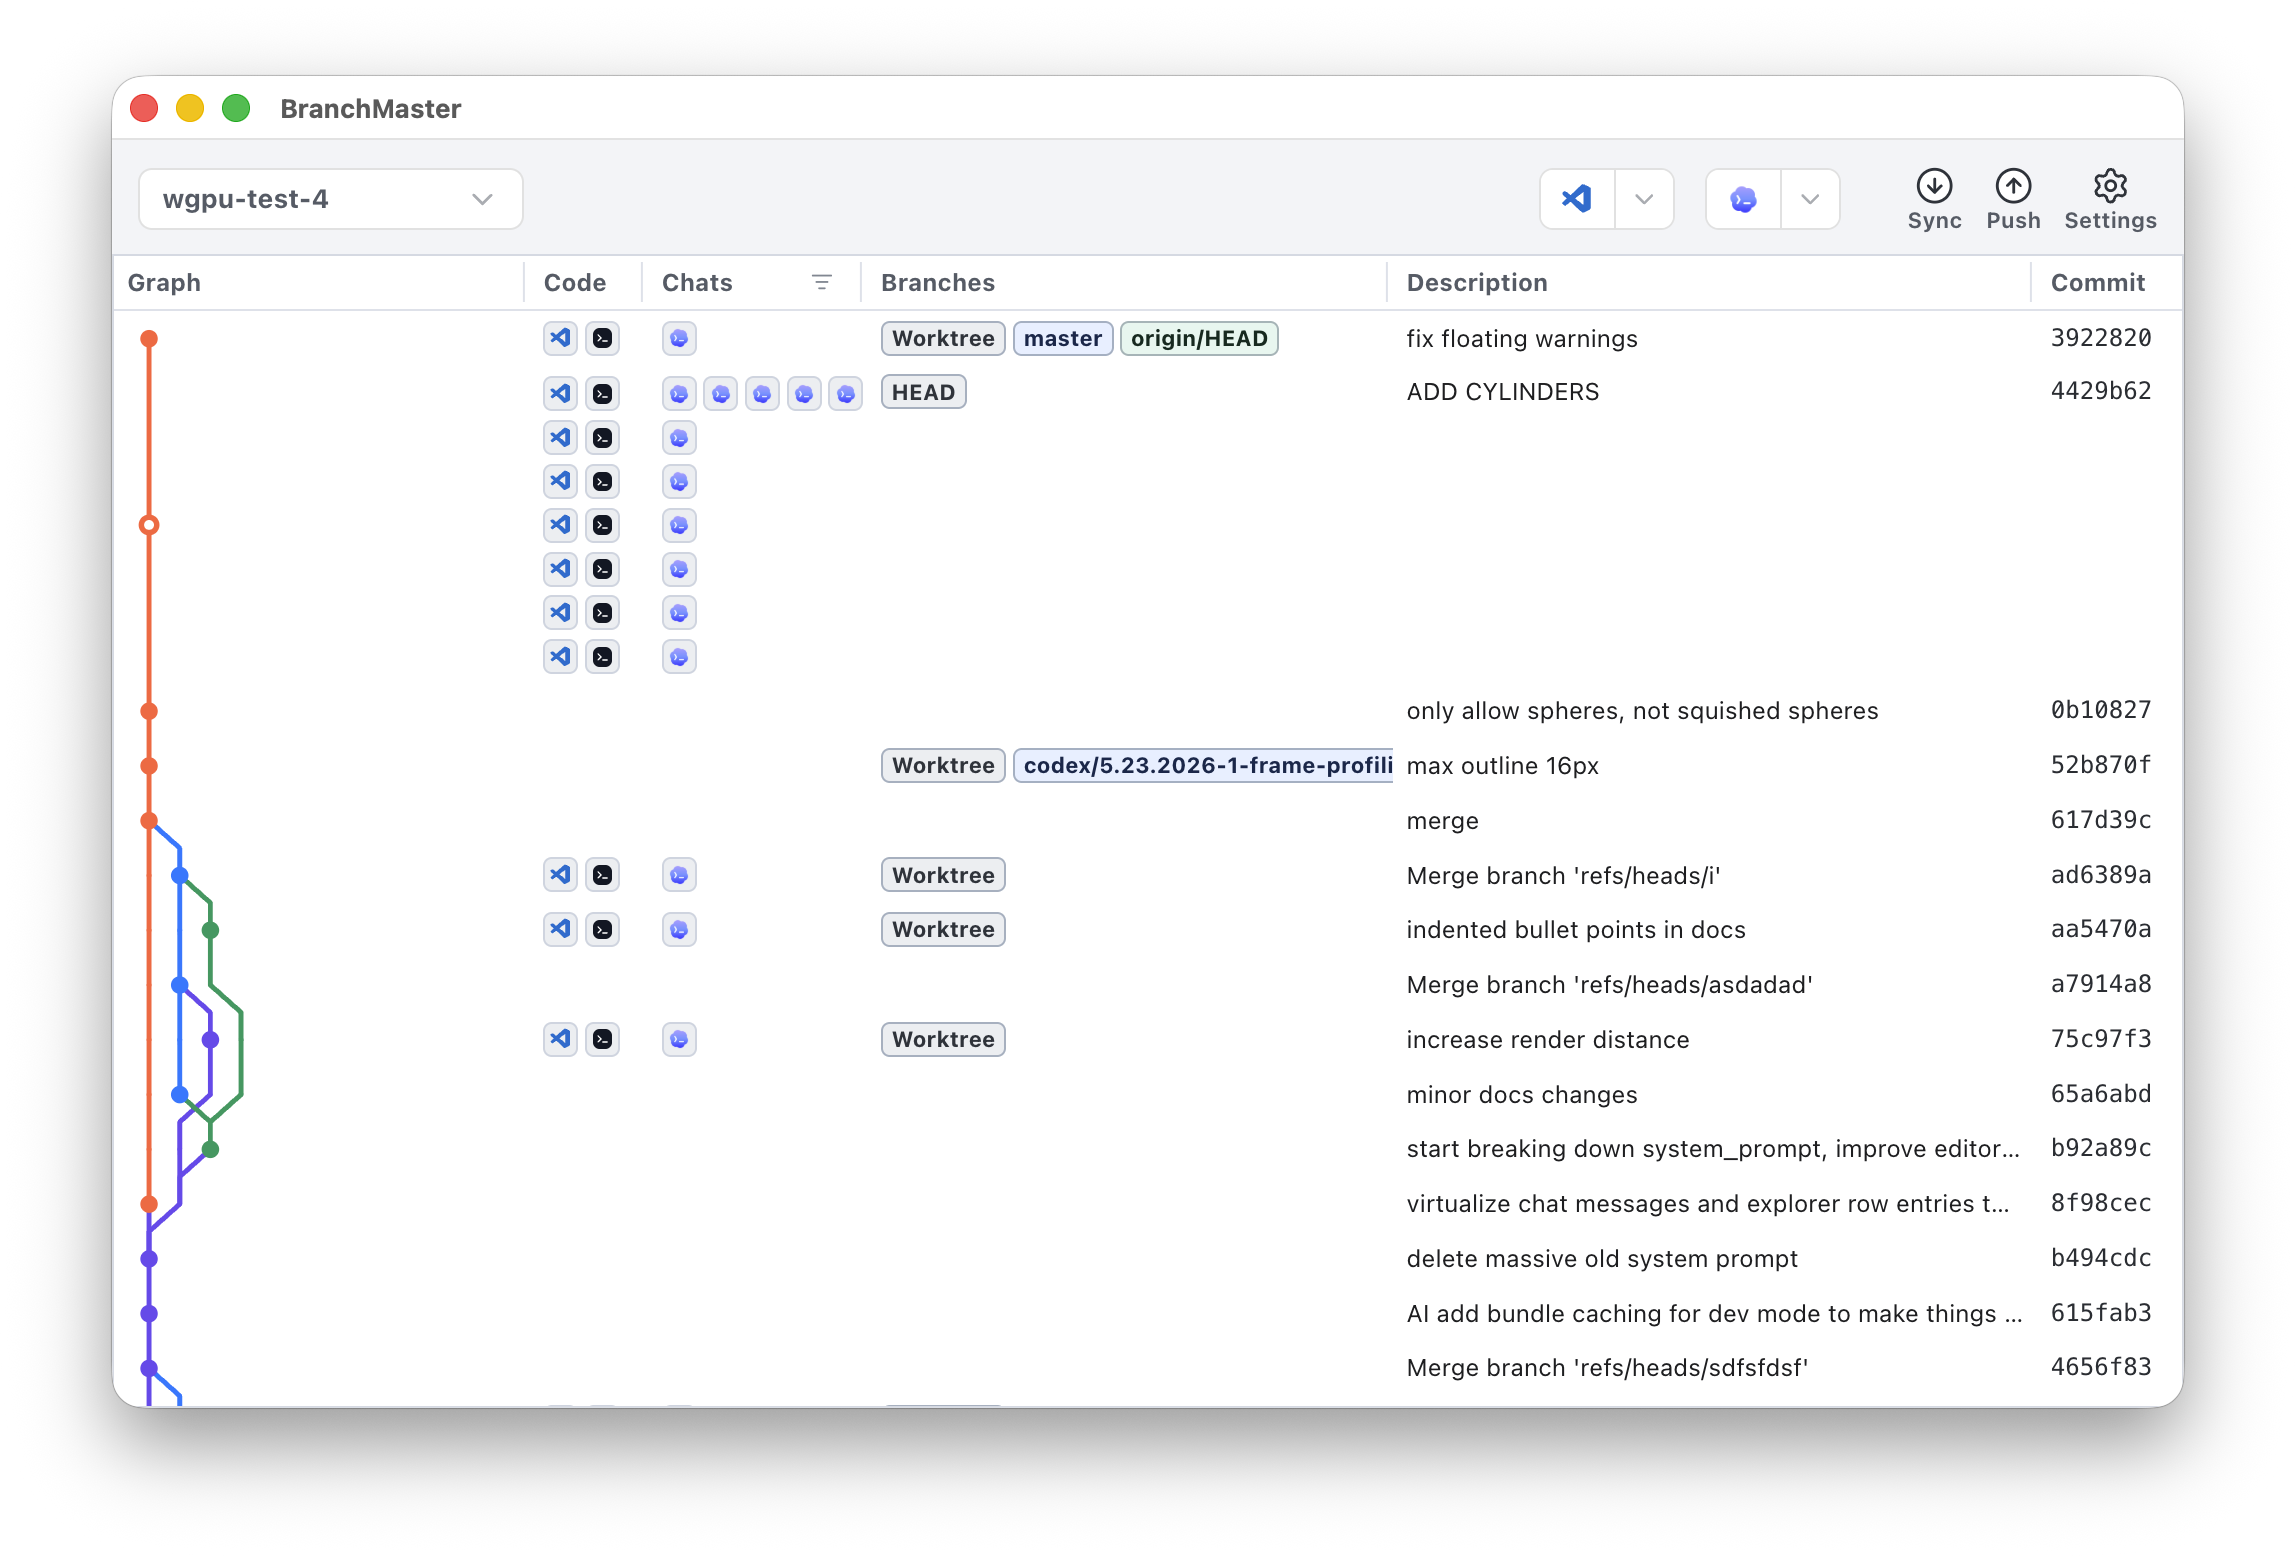
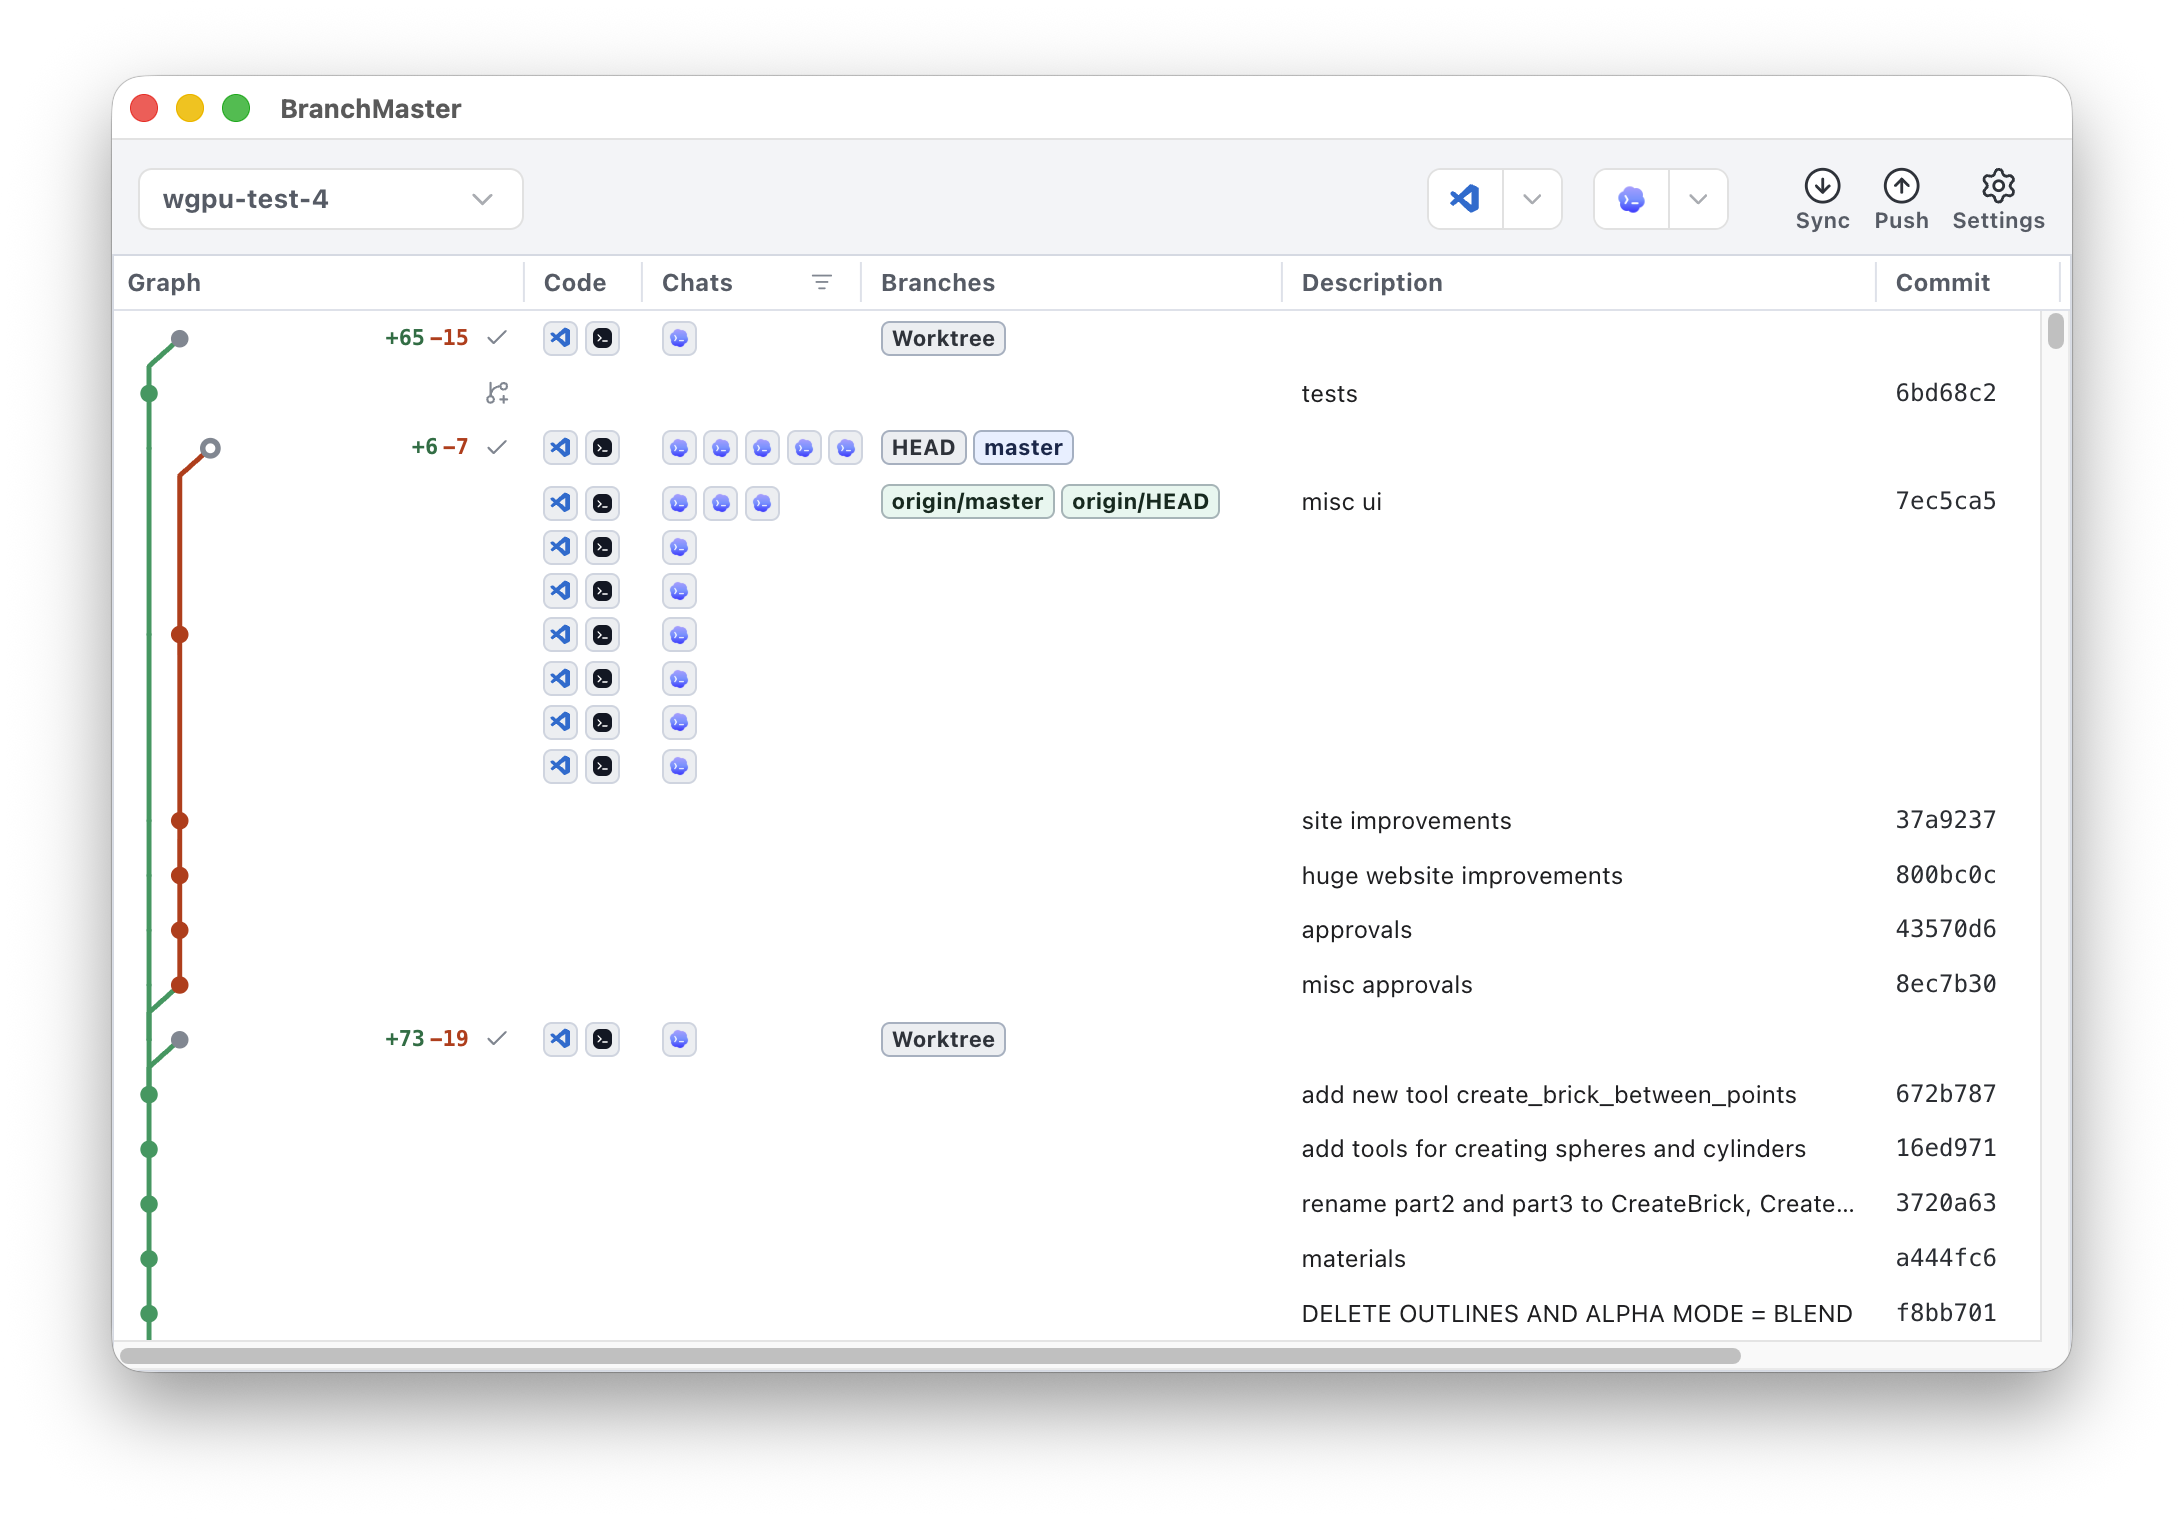
Update product screenshot

diff --git a/README.md b/README.md
@@ -34,6 +34,6 @@ Download BranchMaster on our website: https://branchmaster.dev.
 		src="./website/src/assets/product-screenshot.png"
 		alt="BranchMaster app showing Codex chats, worktrees, branches, and Git history"
 		width="1000"
-		height="678"
+		height="696"
 	/>
 </div>